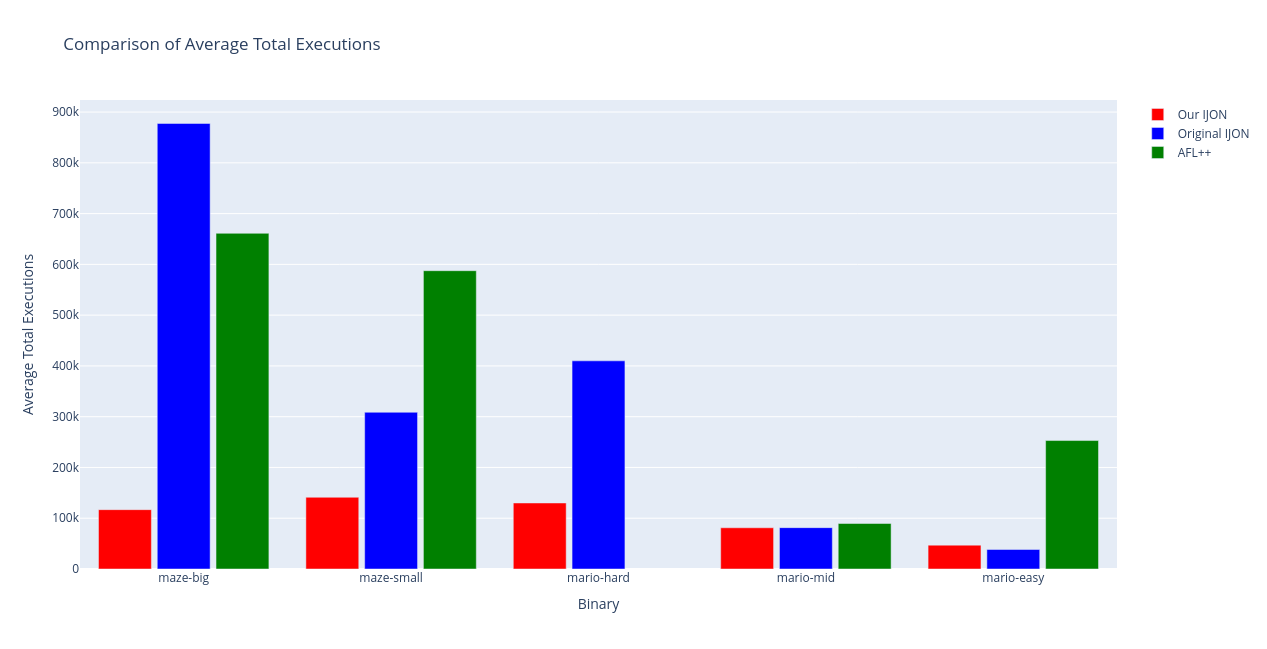
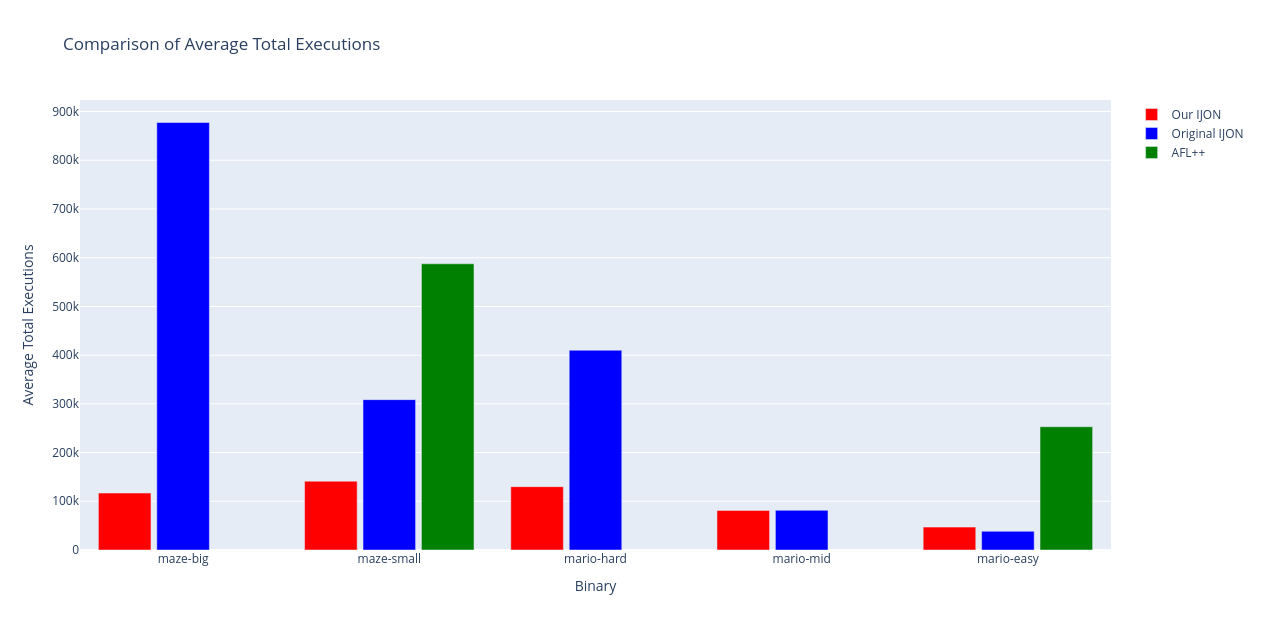
feat: updated pngs

diff --git a/plot.py b/plot.py
@@ -119,3 +119,188 @@ def main():
 
 if __name__ == '__main__':
     main()
+
+
+
+
+
+# #!/usr/bin/python
+
+# import os
+# import json
+
+# import polars as pl
+# import plotly.graph_objects as go
+# import plotly.express as px
+
+# from plotly.subplots import make_subplots
+
+# prog_names = [
+#     'mario-easy',
+#     'mario-mid',
+#     'mario-hard',
+#     'maze-small',
+#     'maze-big',
+# ]
+
+# def human_to_sec(human_string: str):
+#     minutes, seconds = human_string.split(":")
+#     minutes = float(minutes[:-1])
+#     seconds = float(seconds[:-1])
+
+#     return float(seconds + (minutes * 60))
+
+
+# def string_to_float(s):
+#     return float(s)
+
+
+# def name_to_id(some_name):
+#     for p in prog_names:
+#         if p in some_name:
+#             return p
+#     return null
+
+
+# def load_results(dir_path):
+#     # # Get a list of files in the directory
+#     # files = os.listdir(dir_path)
+#     # # Sort the files by modification time
+#     # files.sort(key=lambda x: os.path.getmtime(os.path.join(dir_path, x)))
+#     # # Open the most recently modified file
+#     # most_recent_file = files[-1]
+#     # df = pl.read_json(os.path.join(dir_path, most_recent_file))
+
+#     df = pl.read_json(dir_path)
+
+#     df = df.with_columns(pl.col('run_time_hms').map_elements(human_to_sec, return_dtype=float).alias('run_time'))
+
+#     df = df.with_columns(pl.col('binary').map_elements(name_to_id, return_dtype=str).alias('identifier'))
+
+#     df = df.with_columns(pl.col('execs_done').cast(pl.Float64))
+#     df = df.with_columns(pl.col('execs_per_sec').cast(pl.Float64))
+
+#     df = df.group_by(pl.col('identifier')).agg(pl.col(['run_time', 'execs_per_sec', 'execs_done']).mean())
+
+#     custom_order = {val: idx for idx, val in enumerate(prog_names)}
+
+#     # Sorting the DataFrame
+#     df = df.sort(pl.col("identifier").map_dict(custom_order), descending=[True])
+
+#     return df
+
+
+# def load_raw(dir_path):
+#     df = pl.read_json(dir_path)
+
+#     df = df.with_columns(pl.col('run_time_hms').map_elements(human_to_sec, return_dtype=float).alias('run_time'))
+
+#     df = df.with_columns(pl.col('binary').map_elements(name_to_id, return_dtype=str).alias('identifier'))
+
+#     df = df.with_columns(pl.col('execs_done').cast(pl.Float64))
+#     df = df.with_columns(pl.col('execs_per_sec').cast(pl.Float64))
+
+#     custom_order = {val: idx for idx, val in enumerate(prog_names)}
+
+#     # Sorting the DataFrame
+#     df = df.sort(pl.col("identifier").map_dict(custom_order), descending=[True])
+#     return df
+
+
+# def plot(our_ijon, og_ijon, afl):
+#     fig = make_subplots(rows=3, cols=1)
+
+#     fig.add_trace(go.Bar(x=our_ijon['identifier'], y=our_ijon['run_time'], name='Our IJON run_time', marker_color='red'), row=1, col=1)
+#     fig.add_trace(go.Bar(x=og_ijon['identifier'], y=og_ijon['run_time'], name='Original IJON run_time', marker_color='blue'), row=1, col=1)
+#     fig.add_trace(go.Bar(x=afl['identifier'], y=afl['run_time'], name='AFL++ run_time', marker_color='green'), row=1, col=1)
+
+
+#     # fig.update_layout(title='Comparison Runtime', xaxis_title='Binary', yaxis_title='Runtime', barmode='group', bargap=0.15, bargroupgap=0.1)
+
+#     fig.add_trace(go.Bar(x=our_ijon['identifier'], y=our_ijon['execs_done'], name='Our IJON execs_done', marker_color='red'), row=2, col=1)
+#     fig.add_trace(go.Bar(x=og_ijon['identifier'], y=og_ijon['execs_done'], name='Original IJON execs_done', marker_color='blue'), row=2, col=1)
+#     fig.add_trace(go.Bar(x=afl['identifier'], y=afl['execs_done'], name='AFL++ execs_done', marker_color='green'), row=2, col=1)
+
+
+#     # fig.update_layout(title='Comparison Total Executions', xaxis_title='Binary', yaxis_title='Total Executions', barmode='group', bargap=0.15, bargroupgap=0.1)
+
+#     fig.add_trace(go.Bar(x=our_ijon['identifier'], y=our_ijon['execs_per_sec'], name='Our IJON execs_per_sec', marker_color='red'), row=3, col=1)
+#     fig.add_trace(go.Bar(x=og_ijon['identifier'], y=og_ijon['execs_per_sec'], name='Original IJON execs_per_sec', marker_color='blue'), row=3, col=1)
+#     fig.add_trace(go.Bar(x=afl['identifier'], y=afl['execs_per_sec'], name='AFL++ execs_per_sec', marker_color='green'), row=3, col=1)
+
+#     # Customizing the layout
+#     # fig.update_layout(title='Comparison of Average Execs/Second', xaxis_title='Binary', yaxis_title='Executions/Second', barmode='group', bargap=0.15, bargroupgap=0.1)
+
+#     fig.show()
+
+
+
+# def plot_histograms(afl, our_ijon):
+#     fig = make_subplots(rows=3, cols=3)
+
+#     fig.add_trace(
+#         go.Histogram(x=afl['run_time'], nbinsx=100, name=f"afl-run_time {len(afl['run_time'])}"),
+#         row=1, col=1
+#     )
+
+#     fig.add_trace(
+#         go.Histogram(x=afl['execs_per_sec'], nbinsx=100, name=f"afl-execs_per_sec {len(afl['run_time'])}"),
+#         row=2, col=1
+#     )
+
+#     fig.add_trace(
+#         go.Histogram(x=afl['execs_done'], nbinsx=100, name=f"afl-execs_done {len(afl['run_time'])}"),
+#         row=3, col=1
+#     )
+
+#     fig.add_trace(
+#         go.Histogram(x=our_ijon['run_time'], nbinsx=100, name=f"our_ijon-run_time {len(our_ijon['run_time'])}"),
+#         row=1, col=2
+#     )
+
+#     fig.add_trace(
+#         go.Histogram(x=our_ijon['execs_per_sec'], nbinsx=100, name=f"our_ijon-execs_per_sec {len(our_ijon['run_time'])}"),
+#         row=2, col=2
+#     )
+
+#     fig.add_trace(
+#         go.Histogram(x=our_ijon['execs_done'], nbinsx=100, name=f"our_ijon-execs_done {len(our_ijon['run_time'])}"),
+#         row=3, col=2
+#     )
+
+
+#     fig.update_layout(height=600, width=800, title_text="Histograms")
+#     fig.show()
+
+
+# def plot_histogram(df):
+
+#     fig = px.histogram(df, x=df['run_time'])
+#     fig.show()
+
+
+# def main():
+#     afl = load_results("./afl++/results/afl.json")
+#     our_ijon = load_results("./afl++/results/our_ijon.json")
+#     og_ijon = load_results("./ijon-original/ijon-experiment/results/original_ijon.json")
+
+#     afl_raw = load_raw("./afl++/results/afl.json")
+#     our_ijon_raw = load_raw("./afl++/results/our_ijon.json")
+#     og_ijon_raw = load_raw("./ijon-original/ijon-experiment/results/original_ijon.json")
+
+
+#     # print(afl)
+
+#     # plot_histograms(afl_raw.filter(pl.col('identifier') == "mario-easy"), our_ijon_raw.filter(pl.col('identifier') == "mario-easy"))
+#     # plot_histograms(afl_raw.filter(pl.col('identifier') == "mario-mid"), our_ijon_raw.filter(pl.col('identifier') == "mario-mid"))
+#     # plot_histograms(afl_raw.filter(pl.col('identifier') == "mario-hard"), our_ijon_raw.filter(pl.col('identifier') == "mario-hard"))
+#     # plot_histograms(afl_raw.filter(pl.col('identifier') == "maze-small"), our_ijon_raw.filter(pl.col('identifier') == "maze-small"))
+#     # plot_histograms(afl_raw.filter(pl.col('identifier') == "maze-big"), our_ijon_raw.filter(pl.col('identifier') == "maze-big"))
+
+
+#     plot(our_ijon.to_pandas(), og_ijon.to_pandas(), afl.to_pandas())
+    
+
+
+# if __name__ == '__main__':
+#     main()

diff --git a/afl++/test.py b/afl++/test.py
@@ -15,11 +15,11 @@ DATA_DIR = "data"
 
 NUM_CORES = multiprocessing.cpu_count() - 1
 prog_names = [
-    # 'mario-easy',
-    # 'mario-mid',
+    'mario-easy',
+    'mario-mid',
     # 'mario-hard',
     'maze-small',
-    'maze-big',
+    # 'maze-big',
 ]
 
 TIMEOUT = 1200
